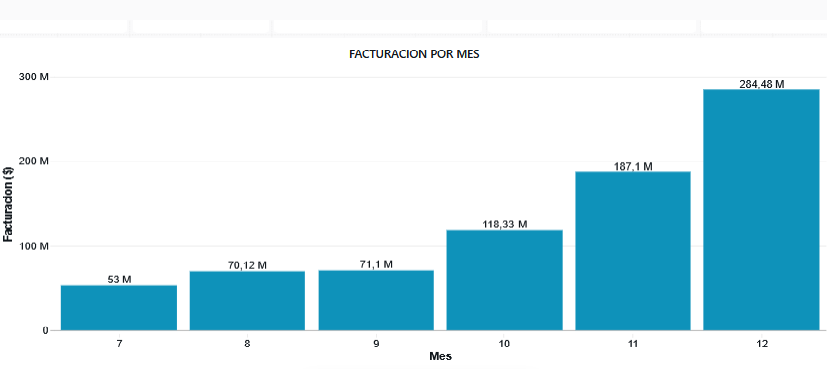
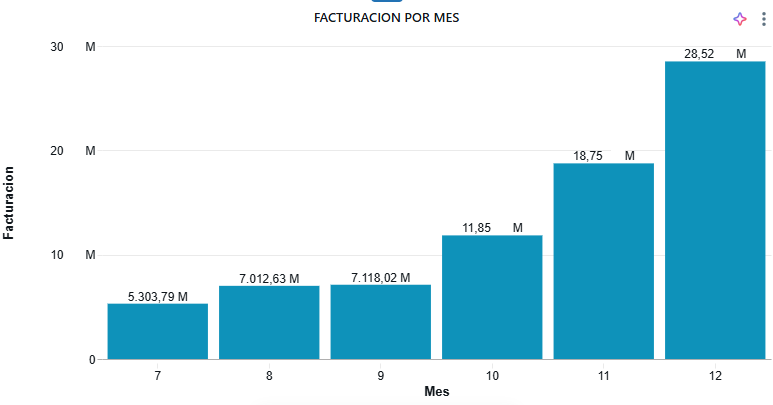
UPDATE Readme + Docs

diff --git a/README.md b/README.md
@@ -53,8 +53,8 @@ Columnas críticas fueron validadas bajo reglas estrictas antes de cargar a Gold
 
 Se aplicó conversión explícita de tipos para garantizar consistencia estructural:
 
-- `precio → INT`
-- `total → INT`
+- `precio → DECIMAL`
+- `total → DECIMAL`
 - `vtafecha → TIMESTAMP`
 
 Esto permitió optimizar almacenamiento en Delta Lake y mejorar performance en consultas analíticas.
@@ -159,7 +159,7 @@ Pipeline **idempotente** y **reprocesable** desde Bronze.
 # 🧮 Ejemplo KPI – Ventas Mensuales
 
 ```sql
-CREATE OR REPLACE TABLE catalog_ventas.gold.kpi_ventas_mes
+CREATE TABLE catalog_ventas.gold.kpi_ventas_mes
 USING DELTA
 COMMENT 'KPI Ventas mensuales'
 AS
@@ -179,19 +179,19 @@ WITH base AS (
 
 SELECT
     mes,
-    COUNT(DISTINCT id_venta) AS total_tickets,
-    SUM(total) / 100 AS facturacion,
-    SUM(cant) AS unidades_vendidas,
-    ROUND(SUM(total) / 100 / COUNT(DISTINCT id_venta),2) AS ticket_promedio,
-    ROUND(SUM(cant) / COUNT(DISTINCT id_venta),2) AS unidades_por_ticket,
+    COUNT(id_venta)                         AS total_tickets,
+    ROUND(SUM(total),2)                     AS facturacion,
+    SUM(cant)                               AS unidades_vendidas,
+    ROUND(SUM(total)  / COUNT(id_venta),2)  AS ticket_promedio,
+    ROUND(SUM(cant) / COUNT(id_venta),2)    AS unidades_por_ticket,
 
     ROUND(
-      COUNT(DISTINCT CASE WHEN delivery = TRUE THEN id_venta END)
-      * 100.0 / COUNT(DISTINCT id_venta),2
+      COUNT(CASE WHEN delivery = TRUE THEN id_venta END)
+      * 100.0 / COUNT(id_venta),2
     ) AS pct_delivery,
 
-    ROUND(SUM(CASE WHEN delivery = TRUE THEN total /100 ELSE 0 END),2) AS fact_delivery,
-    ROUND(SUM(CASE WHEN delivery = FALSE THEN total /100 ELSE 0 END),2) AS fact_local,
+    ROUND(SUM(CASE WHEN delivery = TRUE THEN total ELSE 0 END),2) AS fact_delivery,
+    ROUND(SUM(CASE WHEN delivery = FALSE THEN total ELSE 0 END),2) AS fact_local,
 
     ROUND(
       SUM(CASE WHEN delivery = FALSE THEN total ELSE 0 END)
@@ -226,7 +226,7 @@ Implementada con **Databricks Workflows**:
 ## 📈 Insights de Negocio
 
 #### 💰 Evolución de facturación
-- Crecimiento mensual: **53M → 284.48M** (mes de Julio a Diciembre)
+- Crecimiento mensual: **5.3M → 28.5M** (mes de Julio a Diciembre)
 ![Ventas Mensuales](sql/imagenes/ventas_mensuales.png)
 
 #### 🛵 Canal de venta

diff --git a/sql/docs/decisiones_tecnicas.md b/sql/docs/decisiones_tecnicas.md
@@ -54,8 +54,8 @@ La ingesta hacia **Bronze** es **append-only**.
 
 Conversión explícita de tipos:
 
-- `precio` → INT  
-- `total` → INT  
+- `precio` → DECIMAL  
+- `total` → DECIMAL
 - `vtafecha` → TIMESTAMP  
 
 ---
